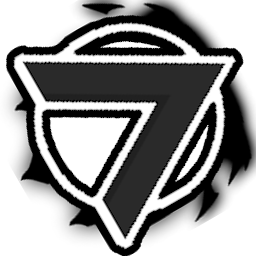
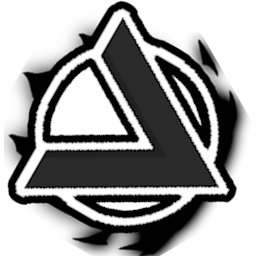
v0.1.0-alpha

diff --git a/src/utils.hpp b/src/utils.hpp
@@ -22,11 +22,14 @@ icon = CCSprite::createWithSpriteFrameName("ship");
         return {r,g,b};
     }
     static IconButtonSprite* addTag(std::string tag) {
-        bool spr = true;
         std::transform(tag.begin(), tag.end(), tag.begin(),
                [](unsigned char c){ return std::tolower(c); });
+
         auto tagNode = IconButtonSprite::create("tagSquare.png"_spr, CCSprite::create(fmt::format("{}"_spr, tag + ".png").c_str()), tag.c_str(), "bigFont.fnt");
-        if (tagNode->getIcon()->getScale() == 0.625) tagNode->setIcon(LoadingSpinner::create(40));
+        if (tagNode->getIcon()->getScale() == 0.625) tagNode->setIcon(CCSprite::create("404.png"_spr));
+
+        if (std::unordered_set<std::string>{"generic", "tech", "effect", "design", "layout", "modern", "art", "ambience", "animation", "cartoon", "realism", "core", "minigame", "simplism", "atmospheric", "experimental", "standard", "recreation", "neon"}.count(tag))  tagNode->setIcon(CCSprite::create("style.png"_spr));
+
         tagNode->setAnchorPoint({1, 0.5});
         tagNode->setScale(0.35);
         tagNode->setColor(tagUtils::color(tag));

diff --git a/changelog.md b/changelog.md
@@ -1,3 +1,6 @@
+# v0.1.0-alpha
+- Mod Redesign
+
 # v0.0.7-alpha.2
 - Full Cross-platform support
 - Tags are now correctly shown in all aspect ratios (hopefully)
